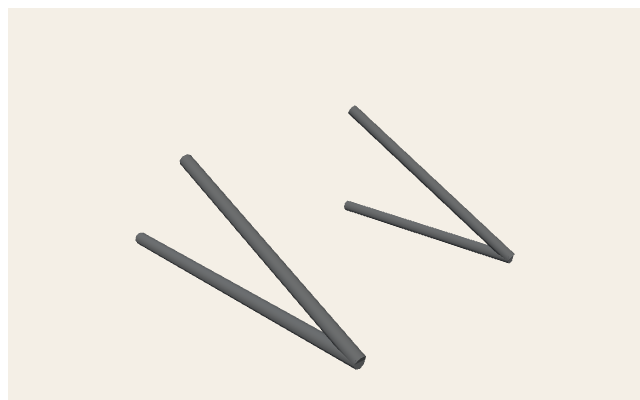
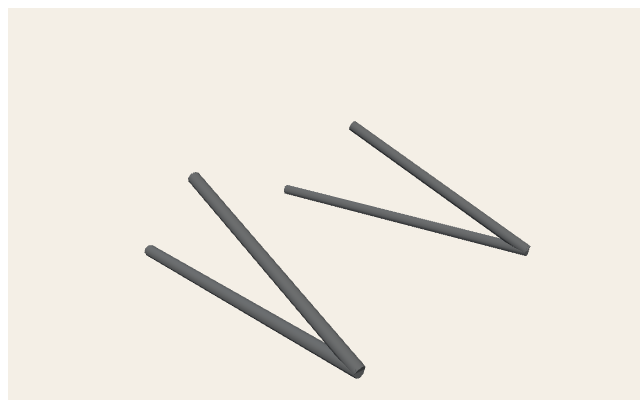
v0.3.256: Sit Käferkraft WaistL on the new BodyPaint span
Keep WaistR where it is; bury both WaistL caps along the pole.

Changed region(s): [[0.1875, 0.39, 0.5938, 0.96], [0.4375, 0.27, 0.8438, 0.66]]

diff --git a/tests/kaeferkraft-pole-frame.test.ts b/tests/kaeferkraft-pole-frame.test.ts
@@ -8,8 +8,8 @@ const INTO = 0.08;
 
 const WAIST_L_PICK = {
   name: "WaistL",
-  front: new Vector3(-0.32, 0.96, -0.55),
-  rear: new Vector3(0.5, 0.96, -0.55),
+  front: new Vector3(-0.571, 1.061, -0.449),
+  rear: new Vector3(0.57, 1.051, -0.6),
 };
 const WAIST_R_PICK = {
   name: "WaistR",
@@ -69,18 +69,8 @@ function expectRailCovers(ends: [Vector3, Vector3], pick: { front: Vector3; rear
   expect(projectT(pick.rear, front, rear)).toBeLessThan(0.98);
 }
 
-/** Original WaistL: front is the pole cap; only the rear is buried +INTO on +X. */
-function expectRailRearBuriedOnX(ends: [Vector3, Vector3], pick: { front: Vector3; rear: Vector3 }): void {
-  const [front, rear] = orderFrontRear(ends[0], ends[1]);
-  expect(front.distanceTo(pick.front)).toBeLessThan(POLE_R);
-  expect(distToSegment(pick.rear, front, rear)).toBeLessThan(POLE_R);
-  expect(rear.x).toBeGreaterThan(pick.rear.x + INTO * 0.85);
-  expect(Math.abs(rear.y - pick.rear.y)).toBeLessThan(POLE_R);
-  expect(Math.abs(rear.z - pick.rear.z)).toBeLessThan(POLE_R);
-}
-
 describe("Käferkraft pole-frame waist", () => {
-  it("ships detached WaistL on the original sit and WaistR on the BodyPaint span", async () => {
+  it("ships detached WaistL / WaistR covering their own BodyPaint spans", async () => {
     const { NodeIO } = await import("@gltf-transform/core");
     const { ALL_EXTENSIONS } = await import("@gltf-transform/extensions");
     const io = new NodeIO().registerExtensions(ALL_EXTENSIONS);
@@ -91,7 +81,7 @@ describe("Käferkraft pole-frame waist", () => {
     expect(left).toBeTruthy();
     expect(right).toBeTruthy();
     expect(doc.getRoot().listNodes().some((n) => n.getName() === "Waist" || n.getName() === "Waist_1")).toBe(false);
-    expectRailRearBuriedOnX(cylinderEnds(left!), WAIST_L_PICK);
+    expectRailCovers(cylinderEnds(left!), WAIST_L_PICK);
     expectRailCovers(cylinderEnds(right!), WAIST_R_PICK);
 
     expect(named("WaistToFrontTop_L")).toBeTruthy();
@@ -112,7 +102,7 @@ describe("Käferkraft pole-frame waist", () => {
       const b = new Vector3(0, half / 2, 0).applyQuaternion(mesh.quaternion).add(mesh.position);
       return [a, b] as [Vector3, Vector3];
     };
-    expectRailRearBuriedOnX(endsOf(left!), WAIST_L_PICK);
+    expectRailCovers(endsOf(left!), WAIST_L_PICK);
     expectRailCovers(endsOf(right!), WAIST_R_PICK);
     expect(g.children.some((c) => c.name === "WaistToFrontTop_L")).toBe(true);
     expect(g.children.some((c) => c.name === "WaistToFrontTop_R")).toBe(true);

diff --git a/e2e/kaeferkraft-waist.spec.ts b/e2e/kaeferkraft-waist.spec.ts
@@ -93,16 +93,16 @@ test.describe("Käferkraft waist poles", () => {
     expect(right).toBeTruthy();
     expect(left!.mid[2]).toBeLessThan(0);
     expect(right!.mid[2]).toBeGreaterThan(0);
-    expect(left!.mid[0]).toBeGreaterThan(0.05);
-    expect(left!.mid[0]).toBeLessThan(0.25);
-    expect(left!.mid[1]).toBeGreaterThan(0.93);
-    expect(left!.mid[1]).toBeLessThan(0.99);
-    expect(left!.mid[2]).toBeGreaterThan(-0.58);
-    expect(left!.mid[2]).toBeLessThan(-0.52);
+    expect(left!.mid[0]).toBeGreaterThan(-0.05);
+    expect(left!.mid[0]).toBeLessThan(0.05);
+    expect(left!.mid[1]).toBeGreaterThan(1.03);
+    expect(left!.mid[1]).toBeLessThan(1.08);
+    expect(left!.mid[2]).toBeGreaterThan(-0.56);
+    expect(left!.mid[2]).toBeLessThan(-0.49);
     expect(right!.mid[0]).toBeGreaterThan(-0.05);
     expect(right!.mid[0]).toBeLessThan(0.15);
-    expect(left!.half).toBeGreaterThan(0.4);
-    expect(left!.half).toBeLessThan(0.5);
+    expect(left!.half).toBeGreaterThan(0.6);
+    expect(left!.half).toBeLessThan(0.72);
     expect(right!.half).toBeGreaterThan(0.55);
     expect(right!.mid[2]).toBeGreaterThan(0.5);
     expect(right!.mid[2]).toBeLessThan(0.58);

diff --git a/src/render/carPartBuilders.ts b/src/render/carPartBuilders.ts
@@ -208,22 +208,17 @@ export function buildReinforcedFrame(
     const waistL = {
       name: "WaistL",
       stay: "WaistToFrontTop_L",
-      front: [-0.32, 0.96, -0.55] as PoleEnd,
-      rear: [0.5, 0.96, -0.55] as PoleEnd,
-      bury: "rearX" as const,
+      front: [-0.571, 1.061, -0.449] as PoleEnd,
+      rear: [0.57, 1.051, -0.6] as PoleEnd,
     };
     const waistR = {
       name: "WaistR",
       stay: "WaistToFrontTop_R",
       front: [-0.504, 1.061, 0.49] as PoleEnd,
       rear: [0.579, 1.063, 0.57] as PoleEnd,
-      bury: "both" as const,
     };
     for (const side of [waistL, waistR]) {
-      const [front, rear] =
-        side.bury === "rearX"
-          ? [side.front, [side.rear[0] + into, side.rear[1], side.rear[2]] as PoleEnd]
-          : extendPoleIntoFrame(side.front, side.rear, into);
+      const [front, rear] = extendPoleIntoFrame(side.front, side.rear, into);
       addStraightPole(g, front, rear, r, GREY, side.name);
       addStraightPole(
         g,

diff --git a/src/core/version.ts b/src/core/version.ts
@@ -1,5 +1,5 @@
 /** Mirrors package.json version — bump both on each implementation step. */
-export const APP_VERSION = "0.3.255";
+export const APP_VERSION = "0.3.256";
 
 /** Short player-visible credit — German UI, near version / Hilfe. */
 export const APP_CREDIT = "Mit KI erstellt · menschliche Anleitung";

diff --git a/.cursor/cheatsheets/car-kaeferkraft.md b/.cursor/cheatsheets/car-kaeferkraft.md
@@ -229,7 +229,7 @@ Orange boxes = mesh AABBs. Green dots = Teil **mount anchors** (`CAR_PART_LAYOUT
 
 ## Waist anchor picker
 
-Live poles are detached: say `WaistL` (−Z, original sit) or `WaistR` (+Z, BodyPaint). Caps bury 8 cm into the hull.
+Live poles are detached: say `WaistL` (−Z) or `WaistR` (+Z). Caps bury 8 cm into the hull.
 
 ![Käferkraft Waist anchors](../../assets/tripo-concepts/kaeferkraft-waist-anchors.png)
 
@@ -366,7 +366,7 @@ Root AABB (-0.555, 0, -0.605) → (0.555, 0.4, 0.605)
 
 ![public/models/parts/kaeferkraft-reinforced_frame.glb](./img/part-kaeferkraft-reinforced_frame.png)
 
-Root AABB (-0.586, 0.935, -0.575) → (0.669, 1.503, 0.601)
+Root AABB (-0.654, 1.026, -0.635) → (0.669, 1.503, 0.601)
 
 <svg xmlns="http://www.w3.org/2000/svg" width="760" height="520" viewBox="0 0 760 520">
 <rect x="0" y="0" width="760" height="520" fill="#f4efe6"/>
@@ -415,10 +415,10 @@ Root AABB (-0.586, 0.935, -0.575) → (0.669, 1.503, 0.601)
 <text x="48" y="262.0" text-anchor="end" font-size="11" font-family="ui-monospace,monospace" fill="#1a1a1a">0</text>
 <text x="48" y="151.0" text-anchor="end" font-size="11" font-family="ui-monospace,monospace" fill="#1a1a1a">1</text>
 <text x="48" y="40.0" text-anchor="end" font-size="11" font-family="ui-monospace,monospace" fill="#1a1a1a">2</text>
-<rect x="344.1" y="316.3" width="154.3" height="5.6" fill="#f08c0033" stroke="#f08c00" stroke-width="1.6"/>
-<text x="421.3" y="319.0" text-anchor="middle" font-size="10" font-family="ui-sans-serif,sans-serif" font-weight="700" fill="#1a1a1a">WaistL</text>
-<rect x="355.5" y="308.5" width="145.2" height="13.3" fill="#f08c0033" stroke="#f08c00" stroke-width="1.6"/>
-<text x="428.2" y="315.2" text-anchor="middle" font-size="10" font-family="ui-sans-serif,sans-serif" font-weight="700" fill="#1a1a1a">WaistToFrontTop_L</text>
+<rect x="286.9" y="303.9" width="224.0" height="24.5" fill="#f08c0033" stroke="#f08c00" stroke-width="1.6"/>
+<text x="398.9" y="316.2" text-anchor="middle" font-size="10" font-family="ui-sans-serif,sans-serif" font-weight="700" fill="#1a1a1a">WaistL</text>
+<rect x="355.9" y="308.5" width="156.3" height="20.0" fill="#f08c0033" stroke="#f08c00" stroke-width="1.6"/>
+<text x="434.1" y="318.5" text-anchor="middle" font-size="10" font-family="ui-sans-serif,sans-serif" font-weight="700" fill="#1a1a1a">WaistToFrontTop_L</text>
 <rect x="298.6" y="191.3" width="213.7" height="15.7" fill="#f08c0033" stroke="#f08c00" stroke-width="1.6"/>
 <text x="405.4" y="199.2" text-anchor="middle" font-size="10" font-family="ui-sans-serif,sans-serif" font-weight="700" fill="#1a1a1a">WaistR</text>
 <rect x="356.0" y="191.3" width="157.8" height="16.2" fill="#f08c0033" stroke="#f08c00" stroke-width="1.6"/>
@@ -429,8 +429,8 @@ Root AABB (-0.586, 0.935, -0.575) → (0.669, 1.503, 0.601)
 
 | Node | Mesh | Prims | Verts | Center xyz | AABB min → max | Materials |
 | --- | --- | --- | --- | --- | --- | --- |
-| `WaistL` | `WaistL` | 1 | 52 | (0.13, 0.96, -0.55) | (-0.32, 0.935, -0.575) → (0.58, 0.985, -0.525) | Grey |
-| `WaistToFrontTop_L` | `WaistToFrontTop_L` | 1 | 52 | (0.17, 1.22, -0.515) | (-0.253, 0.939, -0.575) → (0.593, 1.501, -0.455) | Grey |
+| `WaistL` | `WaistL` | 1 | 52 | (-0.001, 1.056, -0.524) | (-0.654, 1.026, -0.635) → (0.653, 1.086, -0.414) | Grey |
+| `WaistToFrontTop_L` | `WaistToFrontTop_L` | 1 | 52 | (0.205, 1.265, -0.545) | (-0.251, 1.028, -0.635) → (0.66, 1.502, -0.455) | Grey |
 | `WaistR` | `WaistR` | 1 | 52 | (0.037, 1.062, 0.53) | (-0.586, 1.036, 0.459) → (0.661, 1.088, 0.601) | Grey |
 | `WaistToFrontTop_R` | `WaistToFrontTop_R` | 1 | 52 | (0.209, 1.272, 0.528) | (-0.251, 1.041, 0.455) → (0.669, 1.503, 0.601) | Grey |
 

diff --git a/assets/tripo-concepts/kaeferkraft-waist-anchors.md b/assets/tripo-concepts/kaeferkraft-waist-anchors.md
@@ -2,11 +2,11 @@
 
 Live poles are **detached**. Command **`WaistL`** or **`WaistR`** — never a shared `Waist` name.
 
-Mesh space, meters, **nose −X**. `WaistL` is the original pole (front stops short of the cowl; rear +8 cm on +X). `WaistR` buries both caps along the pole.
+Mesh space, meters, **nose −X**. Caps bury 8 cm into the hull.
 
 | Node | From behind | Front | Rear |
 | --- | --- | --- | --- |
-| `WaistL` | −Z | (−0.32, 0.96, −0.55) | (0.50, 0.96, −0.55) rear +8 cm on +X |
+| `WaistL` | −Z | (−0.571, 1.061, −0.449) | (0.570, 1.051, −0.600) |
 | `WaistR` | +Z | (−0.504, 1.061, 0.490) | (0.579, 1.063, 0.570) |
 
 Stays: `WaistToFrontTop_L` / `WaistToFrontTop_R`.
